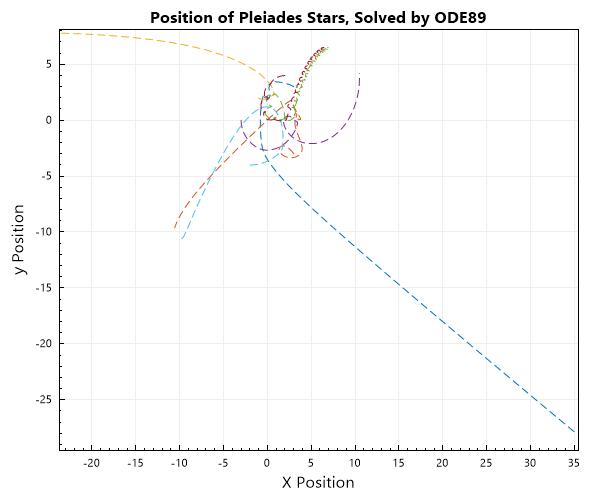
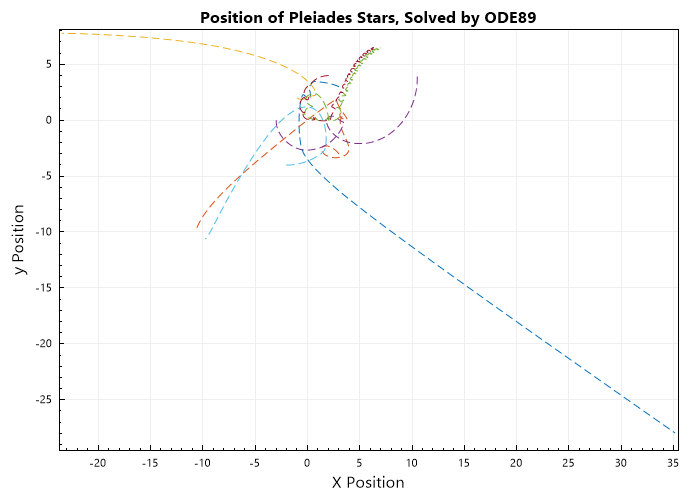
advanced

diff --git a/docs/source/Advanced_Engineering_Applications.rst b/docs/source/Advanced_Engineering_Applications.rst
@@ -998,16 +998,15 @@ The dynamics of the system can then be modelled as:
                           0, 0, 0, -1.25, 1, 0, 0];
         
          Indexer I = new(0, 7), J = I + 7;
-         double[] tspan = [..ColVec.Linspace(1, 15, 200)];
-         var opts = new Ode.Set() {AbsTol = 1e-15, RelTol = 1e-13};
+         double[] tspan = Linspace(1, 15, 200);
+                var opts = Odeset( AbsTol: 1e-15, RelTol: 1e-13 );
         
-         Ode.Result result89 = Ode.Ode89(pleiades, 
-             init, tspan, opts);
-         var plt = Plot(result89.Y["", I], result89.Y["", J], "--");
-         plt.Title = "Position of Pleiades Stars, Solved by ODE89";
-         plt.XLabel = "X Position";
-         plt.YLabel = "y Position";
-         plt.SaveFig("Position-of-Pleiades-Stars-CCL-Math-Ode89.png");
+         (ColVec T, Matrix Y) = Ode89(pleiades, init, tspan, opts);
+         Plot(Y["", I], Y["", J], "--");
+         Title("Position of Pleiades Stars, Solved by ODE89");
+         Xlabel("X Position");
+         Ylabel("y Position");
+         SaveAs("Position-of-Pleiades-Stars-CCL-Math-Ode89.png");
         
 
       .. figure:: images/Position-of-Pleiades-Stars-CCL-Math-Ode89.png

diff --git a/docs/source/Optimization.rst b/docs/source/Optimization.rst
@@ -129,7 +129,7 @@ Root of System of Nonlinear Equation
          using CypherCrescent.MathematicsLibrary;
          using static CypherCrescent.MathematicsLibrary.Math;
 
-         double[] x0, res; ColVec x;
+         double[] x0, res; ColVec x
          // define the function
          ColVec fun(ColVec x)
          {
@@ -233,13 +233,14 @@ fmincon function is a versatile tool for solving constrained nonlinear optimizat
       using CypherCrescent.MathematicsLibrary;
       using static CypherCrescent.MathematicsLibrary.Math;
 
+      
       static double fun(ColVec x) => 100 * Pow(x[1] - x[0]*x[0], 2) + Pow(1 - x[0], 2);
       double[] x0 = [0.5, 0];
-      Matrix A = new double[,]{ { 1, 2} };
-      ColVec b = 1;
-      Matrix Aeq = new double[,] { { 2, 1 } };
-      ColVec beq = 1;
-      ColVec x = Fmincon(fun, x0, x => A * x - b, x => Aeq * x - beq);
+      Matrix AInEq = new double[,]{ { 1, 2} };
+      ColVec bInEq = 1;
+      Matrix AEq = new double[,] { { 2, 1 } };
+      ColVec bEq = 1;
+      ColVec x = Fmincon(fun, x0, x => AInEq * x - bInEq, x => AEq * x - bEq);
       Console.WriteLine(x);
 
    Output:

diff --git a/docs/source/index.rst b/docs/source/index.rst
@@ -37,4 +37,4 @@ Contents
    api
 
 
-Lumache hosts its documentation on Read the Docs.
+CCL Math hosts its documentation on Read the Docs.
